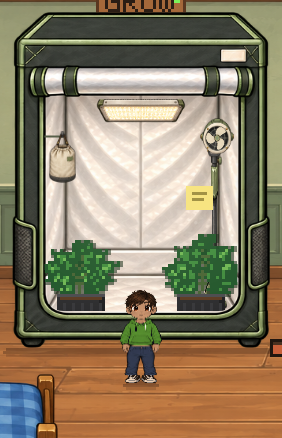
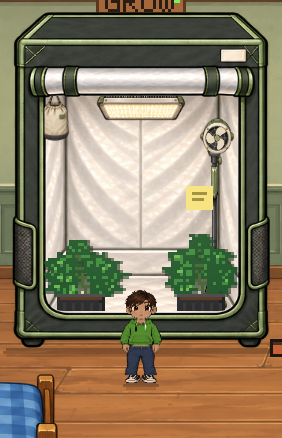
Align exhaust and light samples behind each tent flap

diff --git a/graphics/exhaust/sources/light-placement-proposal.js b/graphics/exhaust/sources/light-placement-proposal.js
@@ -1,0 +1,93 @@
+/* Approval-only light mounting alignment; artwork and simulation unchanged. */
+(()=>{
+ 'use strict';
+ const DATA=__BAGSEED_GROW_LIGHTS_DATA__,image=new Image(),original=Gear.light,oldIcon=drawGearIcon,hit=RoomArt.hit,fields=new Map(),fixtures=new Map();let loaded=false,activeLoc=null,bound=false;
+ const smooth=(a,b,x)=>{const k=clamp((x-a)/(b-a),0,1);return k*k*(3-2*k);};
+ function fixtureY(loc,n){const a=DATA.tiers[n];return BagseedTentPlacement.roofY(loc)-.75-a.top-a.height*({1:93/227,2:90/225,3:84/239,4:88/277}[n]);}
+ function layout(loc){
+  const box=BagseedTentPlacement.bounds(loc);if(!box)return null;const n=state?.locations?.[loc]?.equip.light||1,y=fixtureY(loc,n),xs=loc==='closet'||loc==='tent2'?[DEV_POS[loc].light[0]]:loc==='tent4'?[88]:[229,309];return {box:box.slice(),sources:xs.map(x=>[x,y])};
+ }
+ function lit(on,t){return !!on&&!(state?.fail.flicker&&!settings.reduced&&Math.sin(t*23)>.6);}
+ function sprite(c,x,y,tier,on,scale=1){const a=DATA.tiers[tier];if(!a)return;c.save();c.imageSmoothingEnabled=true;c.imageSmoothingQuality='high';c.drawImage(image,...a[on?'on':'off'],x-a.width*scale/2,y+a.top*scale,a.width*scale,a.height*scale);c.restore();}
+ Gear.light=function(c,x,y,tier,on,t){
+  if(!loaded||!DATA.tiers[tier])return original.call(this,c,x,y,tier,on,t);
+  if(activeLoc)y=fixtureY(activeLoc,tier);sprite(c,x,y,tier,lit(on,t));if(activeLoc){const list=fixtures.get(activeLoc)||[];list.push([x,y,tier]);fixtures.set(activeLoc,list);}
+ };
+ function fieldImage(loc,n){
+  const geo=layout(loc),a=DATA.tiers[n],key=JSON.stringify([loc,n,geo]);if(fields.has(key))return fields.get(key);
+  const [X,Y,W,H]=geo.box,cv=document.createElement('canvas');cv.width=W*3;cv.height=H*3;const g=cv.getContext('2d'),pixels=g.createImageData(cv.width,cv.height),rgb=a.color,floor=Y+H*.9;
+  for(let py=0;py<cv.height;py++)for(let px=0;px<cv.width;px++){
+   const x=X+(px+.5)/3,y=Y+(py+.5)/3;let strength=0;
+   for(const [sx,sy]of geo.sources){const dy=y-(sy+a.emitterY),range=floor-sy-a.emitterY,k=clamp(dy/range,0,1),sigma=lerp(Math.max(4,a.width*.3),W*a.spread,Math.pow(k,.65)),q=(x-sx)/sigma;
+    strength+=Math.exp(-.5*q*q)*Math.pow(1-k,.65)*smooth(-2,7,dy)*(1-smooth(floor-8,floor,y));
+   }
+   const i=(py*cv.width+px)*4;pixels.data[i]=rgb[0];pixels.data[i+1]=rgb[1];pixels.data[i+2]=rgb[2];pixels.data[i+3]=Math.round(255*Math.min(.23,strength*a.alpha));
+  }
+  g.putImageData(pixels,0,0);fields.set(key,cv);return cv;
+ }
+ function particles(loc,n,t){
+  const geo=layout(loc),a=DATA.tiers[n],out=[];if(!geo||!a||settings.reduced)return out;
+  const [X,Y,W,H]=geo.box,floor=Y+H*.87,count=6+n;
+  geo.sources.forEach(([sx,sy],lamp)=>{for(let i=0;i<count;i++){
+   const seed=i+lamp*19+loc.length*7,life=(t*(.015+(i%3)*.002)+seed*.137)%1,top=sy+a.emitterY+4,depth=Math.max(1,floor-top),y=top+life*depth,k=(y-top)/depth;
+   const radius=lerp(Math.max(3,a.width*.28),W*a.spread*.78,k),x=sx+Math.sin(seed*2.399)*radius+Math.sin(t*.18+seed)*1.1;
+   out.push({x,y,r:.35+(i%3)*.12,a:Math.sin(Math.PI*life)**2*(.14+(i%4)*.035),lamp});
+  }});return out;
+ }
+ function paintField(c,loc,n,on,t){
+  if(!loaded||!DATA.tiers[n]||!layout(loc)||!lit(on,t))return;
+  const [X,Y,W,H]=layout(loc).box;c.save();c.beginPath();c.rect(X,Y,W,H);c.clip();c.globalCompositeOperation='screen';c.drawImage(fieldImage(loc,n),X,Y,W,H);
+  c.globalCompositeOperation='source-over';for(const p of particles(loc,n,t)){c.fillStyle=`rgba(255,246,226,${p.a})`;c.beginPath();c.arc(p.x,p.y,p.r,0,Math.PI*2);c.fill();}c.restore();
+ }
+ // Room tint belongs to the room; emitting LEDs and airborne light remain visible
+ // afterward. This pass contains light only, clipped to the opening and cut out
+ // by actual foreground character alpha. It never repaints tent fabric.
+ const emissions=new Map(),surfaces=new Map();let worldFrame=null,lastActors=[];
+ function emissionImage(n){
+  if(emissions.has(n))return emissions.get(n);const a=DATA.tiers[n],[sx,sy,w,h]=a.on,cv=document.createElement('canvas');cv.width=w;cv.height=h;const g=cv.getContext('2d');g.drawImage(image,sx,sy,w,h,0,0,w,h);const pixels=g.getImageData(0,0,w,h),d=pixels.data;
+  for(let y=0;y<h;y++)for(let x=0;x<w;x++){const i=(y*w+x)*4,r=d[i],green=d[i+1],b=d[i+2],v=y/h,bright=n<=2?Math.max((r-green*1.2)/150,(b-green*1.15)/130):Math.min((r-190)/60,(green-150)/90),start=n===4?.43:n===3?.62:.69;d[i+3]=Math.round(d[i+3]*clamp(bright,0,.84)*smooth(start,start+.05,v)*(1-smooth(.96,1,v)));}
+  g.putImageData(pixels,0,0);emissions.set(n,cv);return cv;
+ }
+ function clipOpening(c,loc){
+  const [x,y,w,h]=layout(loc).box,p=new Path2D();
+  if(loc==='closet'){p.moveTo(x+w*.15,y+h*BagseedTentPlacement.roof('closet'));p.lineTo(x+w*.85,y+h*BagseedTentPlacement.roof('closet'));p.lineTo(x+w*.85,y+h*.815);p.quadraticCurveTo(x+w*.85,y+h*.902,x+w*.79,y+h*.902);p.lineTo(x+w*.21,y+h*.902);p.quadraticCurveTo(x+w*.15,y+h*.902,x+w*.15,y+h*.815);p.closePath();}
+  else if(loc==='tent2')BagseedTent2.opening(p,x,y,w,h);
+  else (loc==='tent4'?BagseedTent4:BagseedTent5).opening(p,x,y,w,h);
+  c.clip(p);const dp=doorProg(loc);if(dp>0){const top=y+h*((loc==='closet'?.125:.1)+(loc==='closet'?.845:.85)*Math.round(dp*8)/8);c.beginPath();c.rect(x,top,w,Math.max(0,y+h-top));c.clip();}
+ }
+ function lateFrame(c,frame){
+  lastActors=frame.actors;
+  for(const [loc,draw]of frame.lights){const {n,on,t}=draw;if(!DATA.tiers[n]||!lit(on,t)||doorProg(loc)>=1)continue;const [X,Y,W,H]=layout(loc).box,a=DATA.tiers[n];
+   if(!surfaces.has(loc)){const cv=document.createElement('canvas');cv.width=W*3;cv.height=H*3;surfaces.set(loc,cv);}const cv=surfaces.get(loc),g=cv.getContext('2d');g.setTransform(1,0,0,1,0,0);g.clearRect(0,0,cv.width,cv.height);g.save();g.scale(3,3);g.translate(-X,-Y);clipOpening(g,loc);paintField(g,loc,n,on,t);
+   g.globalCompositeOperation='source-over';for(const [x,y]of layout(loc).sources)g.drawImage(emissionImage(n),x-a.width/2,y+a.top,a.width,a.height);
+   g.globalCompositeOperation='destination-out';for(const actor of frame.actors)if(loc==='closet'||loc==='tent2'||actor.feet>=Y+H)g.drawImage(actor.image,...actor.args);g.restore();
+   c.save();c.globalCompositeOperation='screen';c.drawImage(cv,X,Y,W,H);c.restore();
+  }
+ }
+ function world(draw){return function(c,...args){if(worldFrame)return draw.call(this,c,...args);const frame=worldFrame={lights:new Map(),actors:[]};let complete=false;try{const result=draw.call(this,c,...args);complete=true;return result;}finally{worldFrame=null;if(complete)lateFrame(c,frame);}};}
+ const personDraw=drawPerson;
+ drawPerson=function(c,x,y,...args){if(!worldFrame)return personDraw.call(this,c,x,y,...args);const frame=worldFrame,own=Object.prototype.hasOwnProperty.call(c,'drawImage'),draw=c.drawImage;
+  c.drawImage=function(image,...positions){if(positions.length===4)frame.actors.push({image,args:positions,feet:y});return draw.call(this,image,...positions);};
+  try{return personDraw.call(this,c,x,y,...args);}finally{if(own)c.drawImage=draw;else delete c.drawImage;}
+ };
+
+ function field(c,loc,n,on,t){if(worldFrame){worldFrame.lights.set(loc,{n,on,t});return;}paintField(c,loc,n,on,t);}
+ RoomArt.diffuseTentLight=function(c,loc,t){const L=state.locations[loc];field(c,loc,L.equip.light,isLightOn(loc),t);};
+ RoomArt.hit=function(id,x,y,w,h,label,walk,layer){
+  const match=/^light:(closet|tent2|tent4|tent5)$/.exec(id),list=match&&fixtures.get(match[1]);
+  if(loaded&&list?.length){const geo=layout(match[1]),boxes=list.map(([px,py,tier])=>{const a=DATA.tiers[tier];return [px-a.width/2,Math.max(py+a.top,BagseedTentPlacement.roofY(match[1])),px+a.width/2,py+a.top+a.height];});x=Math.min(...boxes.map(b=>b[0]));y=Math.min(...boxes.map(b=>b[1]));w=Math.max(...boxes.map(b=>b[2]))-x;h=Math.max(8,Math.max(...boxes.map(b=>b[3]))-y);if(!walk)walk=[geo.box[0]+geo.box[2]/2,Math.max(geo.box[1]+geo.box[3]+12,curScene().walk[1]+6)];}
+  return hit.call(this,id,x,y,w,h,label,walk,layer);
+ };
+ drawGearIcon=function(c,cv,slot,tier,museum){
+  if(slot!=='light'||!loaded||!DATA.tiers[tier])return oldIcon.call(this,c,cv,slot,tier,museum);
+  cv.width=320;cv.height=240;c.fillStyle=museum?'#2a2016':'#1a2420';c.fillRect(0,0,320,240);const a=DATA.tiers[tier],scale=Math.min(244/a.width,166/a.height);sprite(c,160,120-(a.top+a.height/2)*scale,tier,true,scale);
+ };
+ function bind(){
+  if(bound)return;bound=true;
+  for(const [name,loc]of [['drawCloset','closet'],['drawTent','tent2']]){const draw=RoomArt[name];RoomArt[name]=function(...args){const previous=activeLoc;activeLoc=loc;fixtures.set(loc,[]);try{return draw.apply(this,args);}finally{activeLoc=previous;}};}
+  RoomArt.draw=world(RoomArt.draw);SCENES.growroom.draw=world(SCENES.growroom.draw);
+  const draw=TentArt.draw;TentArt.draw=function(c,loc,...args){const previous=activeLoc;activeLoc=layout(loc)?loc:null;if(activeLoc)fixtures.set(loc,[]);try{return draw.call(this,c,loc,...args);}finally{activeLoc=previous;}};
+ }
+ const ready=new Promise((resolve,reject)=>{image.onload=()=>{loaded=true;bind();resolve();};image.onerror=()=>reject(Error('Grow-light artwork failed'));image.src=DATA.image;});
+ window.BagseedGrowLights=Object.freeze({ready,bind,field,particles,layout,fixtureY,sprite,fieldImage,fixtures,effectSurfaces:surfaces,get lastActors(){return lastActors;},get loaded(){return loaded;}});
+})();

diff --git a/graphics/exhaust/sources/proposal.js b/graphics/exhaust/sources/proposal.js
@@ -9,7 +9,7 @@
    if(n===3&&on){const lights=Math.round(clamp(speed,.6,1.3)<.8?1:speed>1.1?3:2);for(let i=0;i<3;i++){c.fillStyle=i<lights?'#a8dc76':'#4d574a';c.beginPath();c.ellipse(left+(414-rect[0])*a.width/rect[2],top+([1211,1234,1257][i]-rect[1])*a.height/rect[3],.18,.23,0,0,Math.PI*2);c.fill();}}
   }c.restore();
  }
- function placement(loc,x,y,n){const b=box(loc),a=DATA.tiers[n];if(!b)return [x,y];const left=b[0]+b[2]*(loc==='closet'?.15:.125),sy=loc==='closet'?DEV_POS.closet.light[1]:loc==='tent2'?DEV_POS.tent2.light[1]:loc==='tent4'?44:45,ln=state.locations[loc].equip.light,roof=b[1]+b[3]*(loc==='closet'?.27:.26),top=Math.max(roof+2,ln?sy+([0,4,5,6,12][ln]||6)+2.5:roof+2);return [left+a.width/2+1.5,Math.min(top,b[1]+b[3]*.89-a.height-1)+12];}
+ function placement(loc,x,y,n){const b=box(loc),a=DATA.tiers[n];if(!b)return [x,y];const left=b[0]+b[2]*(loc==='closet'?.15:loc==='tent2'?.125:.105),top=BagseedTentPlacement.roofY(loc)-2.5;return [left+a.width/2-1.1,top+12];}
  Gear.filter=function(c,x,y,n,on=true,t=0){if(!loaded||!DATA.tiers[n])return original.apply(this,arguments);const loc=activeLoc;[x,y]=placement(loc,x,y,n);const b=box(loc),a=DATA.tiers[n],speed=loc&&n===3?exMul(state.locations[loc])||1:1;if(b){c.save();c.strokeStyle='#565d48';c.lineWidth=.65;c.beginPath();c.moveTo(b[0]+b[2]*(loc==='closet'?.15:.125)-.5,y-10);c.lineTo(x,y-10);c.stroke();c.restore();}sprite(c,x,y,n,on,t,speed);if(loc)fixtures.set(loc,{x,y,tier:n});};
  RoomArt.hit=function(id,x,y,w,h,label,walk,layer){const m=/^exhaust:(closet|tent2|tent4|tent5)$/.exec(id),f=m&&fixtures.get(m[1]);if(f){const a=DATA.tiers[f.tier],b=box(m[1]);x=f.x-a.width/2-1;y=f.y-13;w=a.width+2;h=a.height+2;walk=walk||[b[0]+b[2]/2,b[1]+b[3]+(m[1]==='tent2'?12:14)];}return hit.call(this,id,x,y,w,h,label,walk,layer);};
  drawGearIcon=function(c,cv,slot,n,museum){if(slot!=='exhaust'||!loaded||!DATA.tiers[n])return oldIcon.apply(this,arguments);cv.width=320;cv.height=240;c.fillStyle=museum?'#2a2016':'#1a2420';c.fillRect(0,0,320,240);const a=DATA.tiers[n],s=Math.min(184/a.height,230/a.width);c.save();c.translate(160,120);c.scale(s,s);sprite(c,0,12-a.height/2,n,true,0,1);c.restore();};

diff --git a/graphics/exhaust/sources/placement.js b/graphics/exhaust/sources/placement.js
@@ -1,0 +1,8 @@
+/* Approval-only alignment with the physical rolled flap in each shell image. */
+(()=>{
+ const fractions={closet:{budget:.252,standard:.250},tent2:{standard:.250,pro:.250,premium:.237},tent4:{standard:.270,pro:.276,premium:.241},tent5:{standard:.242,pro:.241,premium:.233}};
+ const bounds=loc=>loc==='closet'?STARTER_BOX:loc==='tent2'?T2_BOX:loc==='tent4'?[22,6,132,128]:loc==='tent5'?[178,2,182,142]:null;
+ function roof(loc){return fractions[loc]?.[Shell.of(loc)?.tier]??(loc==='tent2'?.26:.27);}
+ function roofY(loc){const b=bounds(loc);return b[1]+b[3]*roof(loc);}
+ window.BagseedTentPlacement=Object.freeze({bounds,roof,roofY});
+})();

diff --git a/graphics/exhaust/README.md b/graphics/exhaust/README.md
@@ -6,8 +6,8 @@ assets/exhaust-atlas.png is the unchanged original generated sheet: passive stit
 
 sources/proposal.js is injected only into a disposable public/index.html browser. It replaces Gear.filter and exhaust-only icons without editing production files. The tier-one sack is static and remains passive even when a power-state argument changes. Powered rotors turn behind stationary protective cages. ScrubCore follows the native exSpeed / exMul setting, including its indicators. Off motors and reduced motion remain still. No steam, smoke or new ambient particles are added to filtration.
 
-Drawing anchors place full kits below the illustrated tent header and light housing, along the left interior support. Original DEV_POS, collisions, slots and plants remain unchanged. Mounts, units and rotors remain in the existing contents pass beneath tent fabric, doors and foreground characters. Hit targets follow the complete drawn units with approaches outside each tent.
+Drawing anchors tuck the top of each filter 2.5 native pixels behind the rolled flap and the left edge 1.1 pixels behind the side trim. sources/placement.js records the actual flap boundary for every current shell style. sources/light-placement-proposal.js moves the wide fixture housing to that boundary, keeps suspension behind fabric and uses identical positions for LED emission, falloff, particles and interaction targets. tools/exhaust-placement-preview.cjs swaps these modules only in the local HTTP response; production index.html and source renderers remain unchanged. Original DEV_POS, collisions, slots and plants remain unchanged. Mounts, units and rotors remain in the existing contents pass beneath tent fabric, doors and foreground characters. Hit targets follow the complete drawn units with approaches outside each tent.
 
-node tools/preview-exhaust.cjs generates the approval board, on/off examples, day/night views, four tent contexts, actual Climate store cards and a phone card. It verifies all 12 location/tier targets, kit containment below the header/above the tray, unchanged catalog/content/geometry, passive and powered states, off/reduced motion, ScrubCore speed response and store icon equality. python3 tools/animate-exhaust.py packages 96 actual runtime animation captures at 60ms per frame.
+node tools/preview-exhaust.cjs generates the approval board, on/off examples, day/night views, four tent contexts, actual Climate store cards and a phone card. It verifies all 12 location/tier targets, kit overlap behind the flap/above the tray, unchanged catalog/content/geometry, passive and powered states, off/reduced motion, ScrubCore speed response and store icon equality. Additional checks cover 42 shell/light configurations (starter allows tiers 1–3), verifying that native fixture draws and their late glow positions agree. approval-placement.png reproduces the premium 2×2 / four-bar setup from the user photo. python3 tools/animate-exhaust.py packages 96 actual runtime animation captures at 60ms per frame.
 
 Await user artwork approval before production compiler/startup integration, purchase/delivery/fitting/save regression checks and publication. The local checkpoint preserves the work without pushing unapproved changes.

diff --git a/review/exhaust/STATUS.md b/review/exhaust/STATUS.md
@@ -2,6 +2,8 @@
 
 approval-exhaust.png shows all three current tiers, passive/on/off artwork, day/night installed views and matching store icons. exhaust-motion.gif shows the passive sack remaining still and both powered intakes rotating behind fixed cages. contexts-*.png covers the starter, 2×2, 4×4 and 5×5. store-tier-*.png includes actual Climate cards and a phone capture.
 
+approval-placement.png shows the corrected premium 2×2 / four-bar arrangement: filters meet the flap and tuck behind the top and side fabric; the light reaches the same edge. The per-shell roof masks, housing, glow, dust and hit positions now share the boundary. These alignment changes are served only in the disposable preview.
+
 report.json records catalog/content/footprint preservation, passive/on/off/speed/reduced-motion checks, 12 installed hit targets, containment within the illustrated openings and store icon equality.
 
 Production files and the remote repository are unchanged. Approval is pending before integration and publication.
